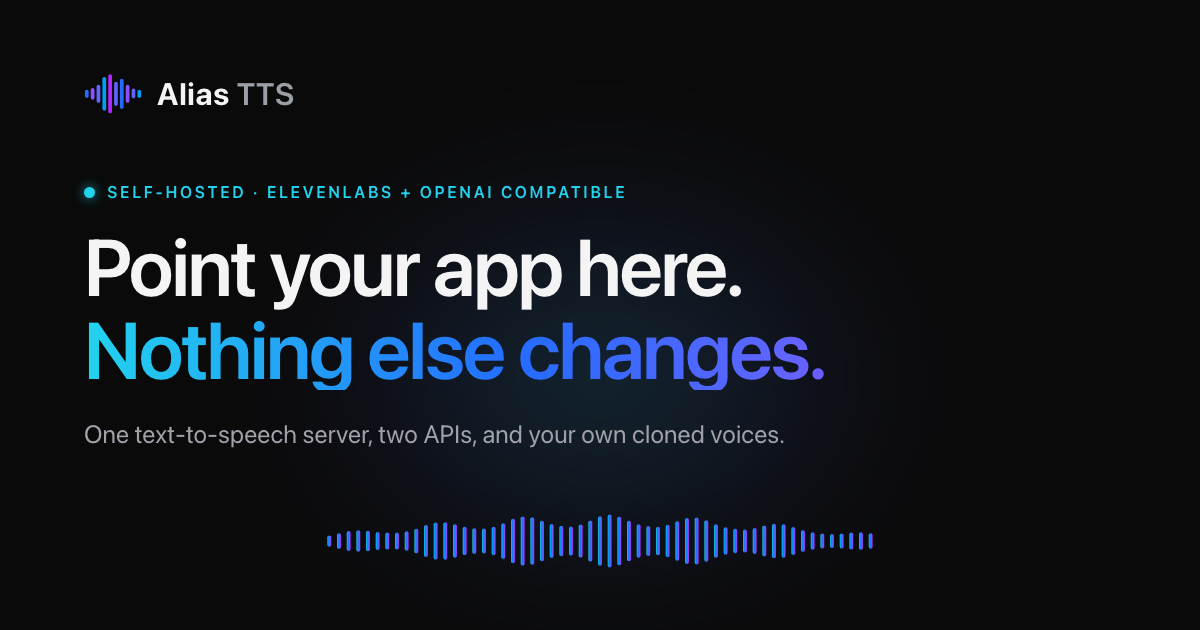
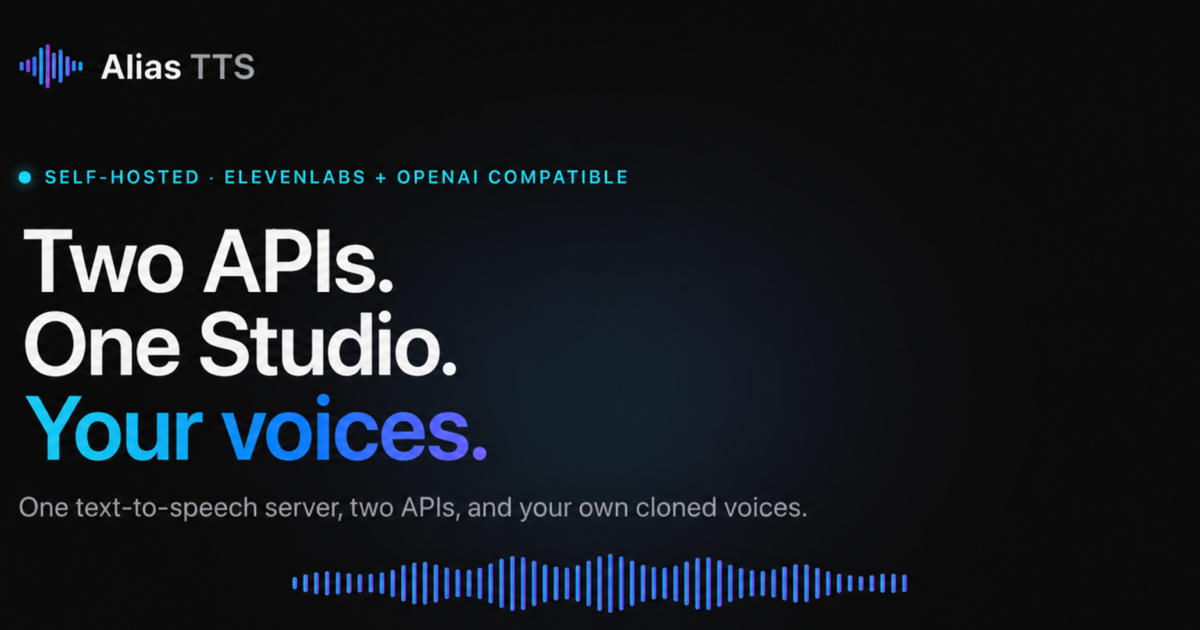
feat(marketing): rework landing hero to "Two APIs. One Studio. Your voices."
Recast the hero tricolon and social meta title around the two compatible APIs converging on Studio, keeping voice ownership as the closing line. Refresh the OG social image and update AboutPageTest to assert the new headline copy and ordering.

diff --git a/resources/views/landing.blade.php b/resources/views/landing.blade.php
@@ -5,7 +5,7 @@
     <meta name="viewport" content="width=device-width, initial-scale=1">
     <title>Alias TTS — self-hosted ElevenLabs &amp; OpenAI text-to-speech</title>
     @include('partials.social-meta', [
-        'metaTitle'       => 'Alias TTS — one server, two APIs, your voices',
+        'metaTitle'       => 'Alias TTS — Two APIs. One Studio. Your voices.',
         'metaDescription' => 'Self-hosted text-to-speech with voice cloning, compatible with the ElevenLabs and OpenAI APIs — on a server you own.',
         'metaImage'       => 'images/social/alias-tts-og.png',
     ])
@@ -80,11 +80,12 @@
             <span class="text-[26px] font-bold leading-none tracking-[0.2px] text-[#f4f4f5]">Alias<span class="font-semibold text-[#9aa0a6]"> TTS</span></span>
         </div>
 
-        {{-- Thesis: the three pillars as a tricolon — self-hosted, dual-API, cloning. --}}
+        {{-- Thesis: the two compatible entry points converge on the product's
+             differentiator, while the final line keeps ownership at the center. --}}
         <h1 class="rise mt-9 text-4xl font-semibold leading-[1.03] tracking-tight sm:text-5xl" style="animation-delay: 80ms">
-            <span class="block">One server,</span>
-            <span class="block">two APIs,</span>
-            <span class="grad-voice block">your voices.</span>
+            <span class="block">Two APIs.</span>
+            <span class="block">One Studio.</span>
+            <span class="grad-voice block">Your voices.</span>
         </h1>
 
         <p class="rise mt-6 max-w-md leading-relaxed text-zinc-400" style="animation-delay: 160ms">

diff --git a/tests/Feature/AboutPageTest.php b/tests/Feature/AboutPageTest.php
@@ -37,6 +37,8 @@ class AboutPageTest extends TestCase
     {
         $this->get(route('landing'))
             ->assertOk()
+            ->assertSeeInOrder(['Two APIs.', 'One Studio.', 'Your voices.'])
+            ->assertSee('Alias TTS — Two APIs. One Studio. Your voices.', false)
             ->assertSee(route('about'), false);
     }
 
